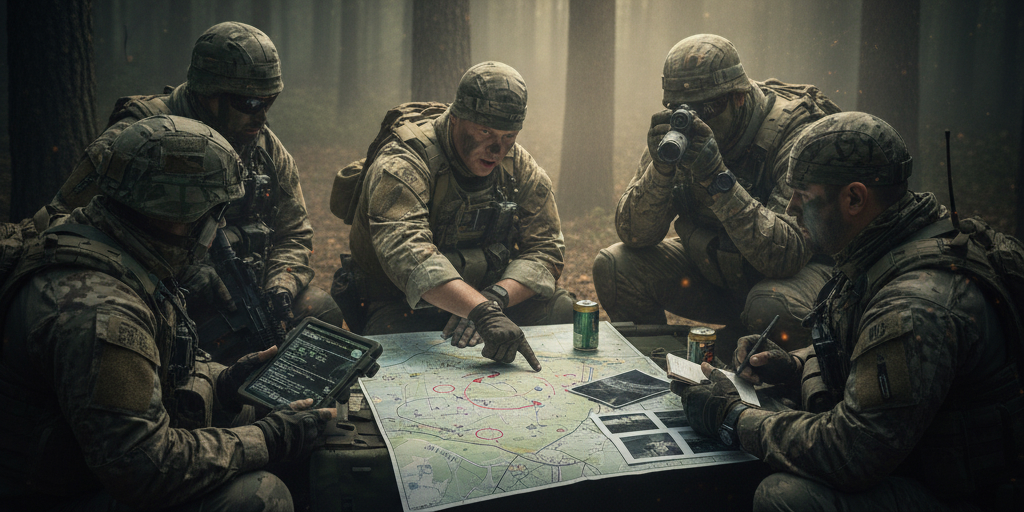
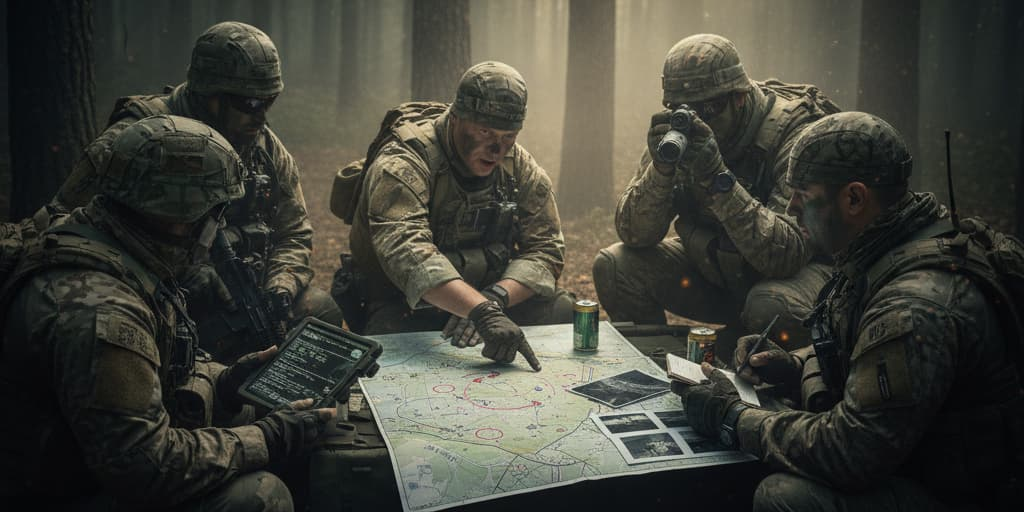
Refactor code structure for improved readability and maintainability

diff --git a/index.html b/index.html
@@ -111,7 +111,7 @@
             <span class="text-[--kh] font-bold">Espectros</span> como
             "desafio", e neutralizar a ameaça antes que o tempo se esgote.
           </div>
-          <img src="imgs/forca_tatica.png" alt="Operadores da Força Tática" class="team-inline-image-clean" />
+          <img src="imgs/forca_tatica.jpg" alt="Operadores da Força Tática" class="team-inline-image-clean" />
         </div>
       </div>
 
@@ -124,7 +124,7 @@
           </h4>
         </div>
         <div class="team-inline-content">
-          <img src="imgs/espectros.png" alt="Célula dos Espectros" class="team-inline-image-clean" />
+          <img src="imgs/espectros.jpg" alt="Célula dos Espectros" class="team-inline-image-clean" />
           <div class="team-inline-description">
             Comandados pelo enigmático "Fantasma", um ex-militar que desertou
             após a Colina 47 e agora busca expor o que considera corrupção
